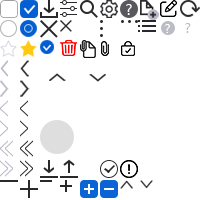
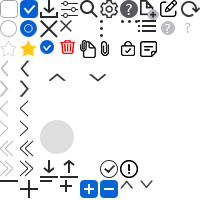
디자인 수정

diff --git a/assets/scss/_partial/_table.scss b/assets/scss/_partial/_table.scss
@@ -183,7 +183,8 @@ table{
                 padding: 0;
                 padding-top: 5px;
                 padding-bottom: 5px;
-                background: transparent;
+                // background: transparent;
+                background: $white;
                 color: $black;
                 border-bottom: 1px solid $layoutColor;
                 // a{
@@ -209,6 +210,7 @@ table{
                         border-left: 4px solid transparent;
                         border-right: 4px solid transparent;
                         border-top: 4px solid $layoutColor;
+                        // border-top: 4px solid $mainColor;
                         position: absolute;
                         top: rem(22);
                         left: calc(50% - 4px);
@@ -288,8 +290,25 @@ table{
     }
     .ellipsis{
         @include ellipsis;
-        // padding: rem(14);
-        padding: rem(4) rem(14);
+        // padding: rem(4) rem(14);
+        padding: 0 rem(6);
+        //추가 min-height:rem(60); 
+        .dNear{
+            font-size: rem(12);
+        }
+        .dNear,
+        .label{
+            & + a{
+                margin-left: rem(5);
+            }
+        }
+    }
+
+    .ellipsis-3{
+        @include ellipsis-3;
+        // padding: rem(4) rem(14);
+        padding: rem(4) rem(4);
+        min-height:rem(92); //추가
         .dNear{
             font-size: rem(12);
         }
@@ -301,8 +320,8 @@ table{
         }
     }
     .photo{
-        width: rem(32);
-        height: rem(32);
+        width: rem(30);
+        height: rem(30);
         border-radius: rem(12);
         vertical-align: middle;
         // margin-right: rem(10);
@@ -341,7 +360,7 @@ table{
         }
     }
     .inputIco{
-        width: calc(100% - 116px);
+        width: calc(100% - 26px);
     }
     input{
         background: transparent;

diff --git a/assets/scss/_partial/_page_myProject.scss b/assets/scss/_partial/_page_myProject.scss
@@ -21,14 +21,14 @@
         position: absolute;
         bottom: rem(15);
         > div{
-            padding-right: rem(360);
+            padding-right: rem(330);
         }
     }
     .boxWrap{
-        padding: rem(20) rem(20) rem(15);   
+        padding: rem(20) rem(20) rem(18);   
         padding-bottom: rem(10);
         &.headType{
-            padding: rem(20); 
+            padding: rem(16) rem(20);
         }
         &.prefix{
             width: rem(500);
@@ -45,7 +45,7 @@
             }
         }
         &.sticky{
-            margin-top: rem(10);
+            margin-top: rem(15);
             padding: 0;
             font-size: rem(16);
             position: relative;
@@ -94,7 +94,7 @@
             overflow-x: auto;
         }
         .yScroll{
-            height: calc(100vh - 815px);
+            height: calc(100vh - 800px);
             margin-top: rem(10);
             .tit{
                 margin-top: rem(16);
@@ -108,7 +108,7 @@
             color: $subInfo;
         }
         >.bottom{
-            margin-top: rem(10);
+            margin-top: rem(7);
             text-align: right;
         }
     }
@@ -134,6 +134,12 @@
         //         color: $inputGray;
         //     }
         // }
+        td{
+            &.txtCenter span.eHigh {  //추가    
+                display: block;
+                text-align: center;
+            }
+        }
     }
     .wrapBottom{
         .hasTooltip{

diff --git a/assets/scss/_partial/_input.scss b/assets/scss/_partial/_input.scss
@@ -6,7 +6,7 @@
 
 
 label{
-    font-weight: 500;
+    font-weight: 400;
     &.need{
         padding-right: rem(10);
         position: relative;
@@ -440,8 +440,8 @@ textarea{
 }
 
 /* 공통 */
-label{
-    font-weight: 400;
+table th label{
+     font-weight: 500;
 }
 input[type=text],
 input[type=number],
@@ -611,11 +611,12 @@ input[type=password]{
     input[type=text],
     input[type=password]{
         width: 100%;
+        background: white; //신규추가
     }
     .ico{
         position: absolute;
         top: 50%;
-        right:rem(14);
+        right:rem(7);
         transform: translateY(-50%);
         + input{
             padding-left: rem(34);
@@ -635,6 +636,7 @@ input[type=password]{
 .hasBtn{
     display: flex;
     align-items: center;
+    padding: 0 rem(6);
     &.full{
         width: 100%;
         input{

diff --git a/assets/scss/_partial/_btn.scss b/assets/scss/_partial/_btn.scss
@@ -66,6 +66,7 @@ button,
         // padding: 0 rem(12);
         padding: 0 rem(6);
         font-weight: 400;
+        font-size: rem(14);
     }
     &.midSize{
         min-width: rem(90);
@@ -304,4 +305,22 @@ span{
     &.mainC{
         background: $mainColor;
     }
+}
+.deco{
+    display: inline-block;
+    // min-width: rem(40);
+    // line-height: rem(22);
+    min-width: rem(30);
+    margin: rem(2) rem(3);
+    line-height: rem(23);
+    //height: rem(24);
+    padding: rem(1) rem(7);
+    font-size: rem(12);
+    color: $tooltipGray;
+    text-align: center;
+    background: $tableBorder;
+    border:0;
+    border-radius: rem(5);
+    // margin-right: rem(4);
+    cursor: inherit;      
 }

diff --git a/assets/scss/_partial/_layout.scss b/assets/scss/_partial/_layout.scss
@@ -293,7 +293,8 @@ header{
                 width: rem(280);
             }
             .myProjDetail{
-                width: calc(100% - 600px);
+                width: calc(100% - 260px);
+                // 회원검색 너비축소 따라 600 = 260변경
                 .wrap{
                     // width: calc(100% - 670px);
                     width: calc(100% - 400px);
@@ -310,7 +311,7 @@ header{
             }
             .quickView{
                 &.fixedHeight{
-                    width: rem(325);
+                    width: rem(322);
                     //width: 0;
                 }
             }

diff --git a/assets/scss/_partial/_box.scss b/assets/scss/_partial/_box.scss
@@ -241,8 +241,8 @@
         @include ellipsis;
     }
     .photo{
-        width: rem(30);
-        height: rem(30);
+        width: rem(38);
+        height: rem(38);
         border-radius: rem(12);
         vertical-align: middle;
         margin-right: rem(10);
@@ -428,7 +428,7 @@
                 }
                 span{
                     margin-right: rem(10);
-                    line-height: rem(30);
+                    // line-height: rem(30);
                 }
                 .memName{
                     display: flex;

diff --git a/assets/scss/_partial/_mixin.scss b/assets/scss/_partial/_mixin.scss
@@ -110,6 +110,17 @@
     -webkit-box-orient: vertical;
 }
 
+@mixin ellipsis-3 {
+    display: -webkit-box;
+    overflow: hidden;
+    text-overflow: ellipsis;
+    word-wrap:break-word;
+    white-space: inherit;
+    -webkit-line-clamp: 3;
+    text-align: left;
+    -webkit-box-orient: vertical;
+}
+
 @mixin ellipsis-4 {
     display: -webkit-box;
     overflow: hidden;

diff --git a/assets/scss/_partial/_icon.scss b/assets/scss/_partial/_icon.scss
@@ -161,6 +161,11 @@
         height: rem(9);
         background-position: -120px -180px;
     }
+    &.note{   //메모 신규추가
+        width: rem(20);
+        height: rem(22);
+        background-position: -140px -40px;
+    }
     &.down{
         width: rem(13);
         height: rem(9);

diff --git a/assets/scss/_partial/_list.scss b/assets/scss/_partial/_list.scss
@@ -3,6 +3,7 @@
     li{
         position: relative;
         margin-left: rem(12);
+        font-size: rem(14);
         // &::before{
         //     content:'';
         //     width: rem(4);
